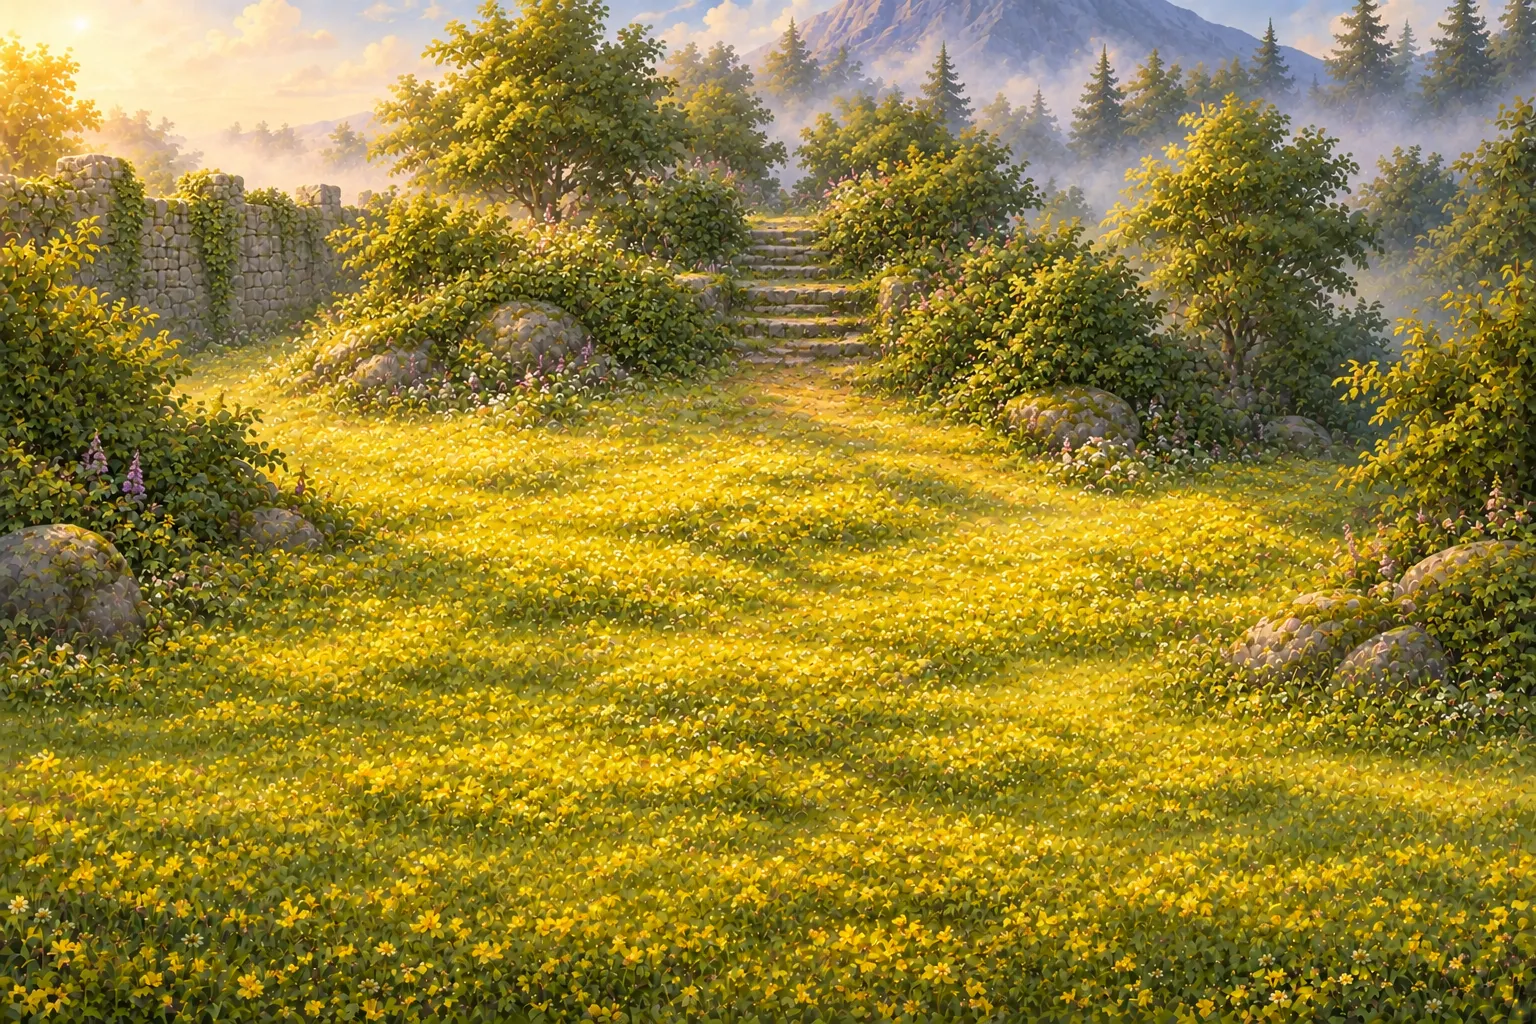
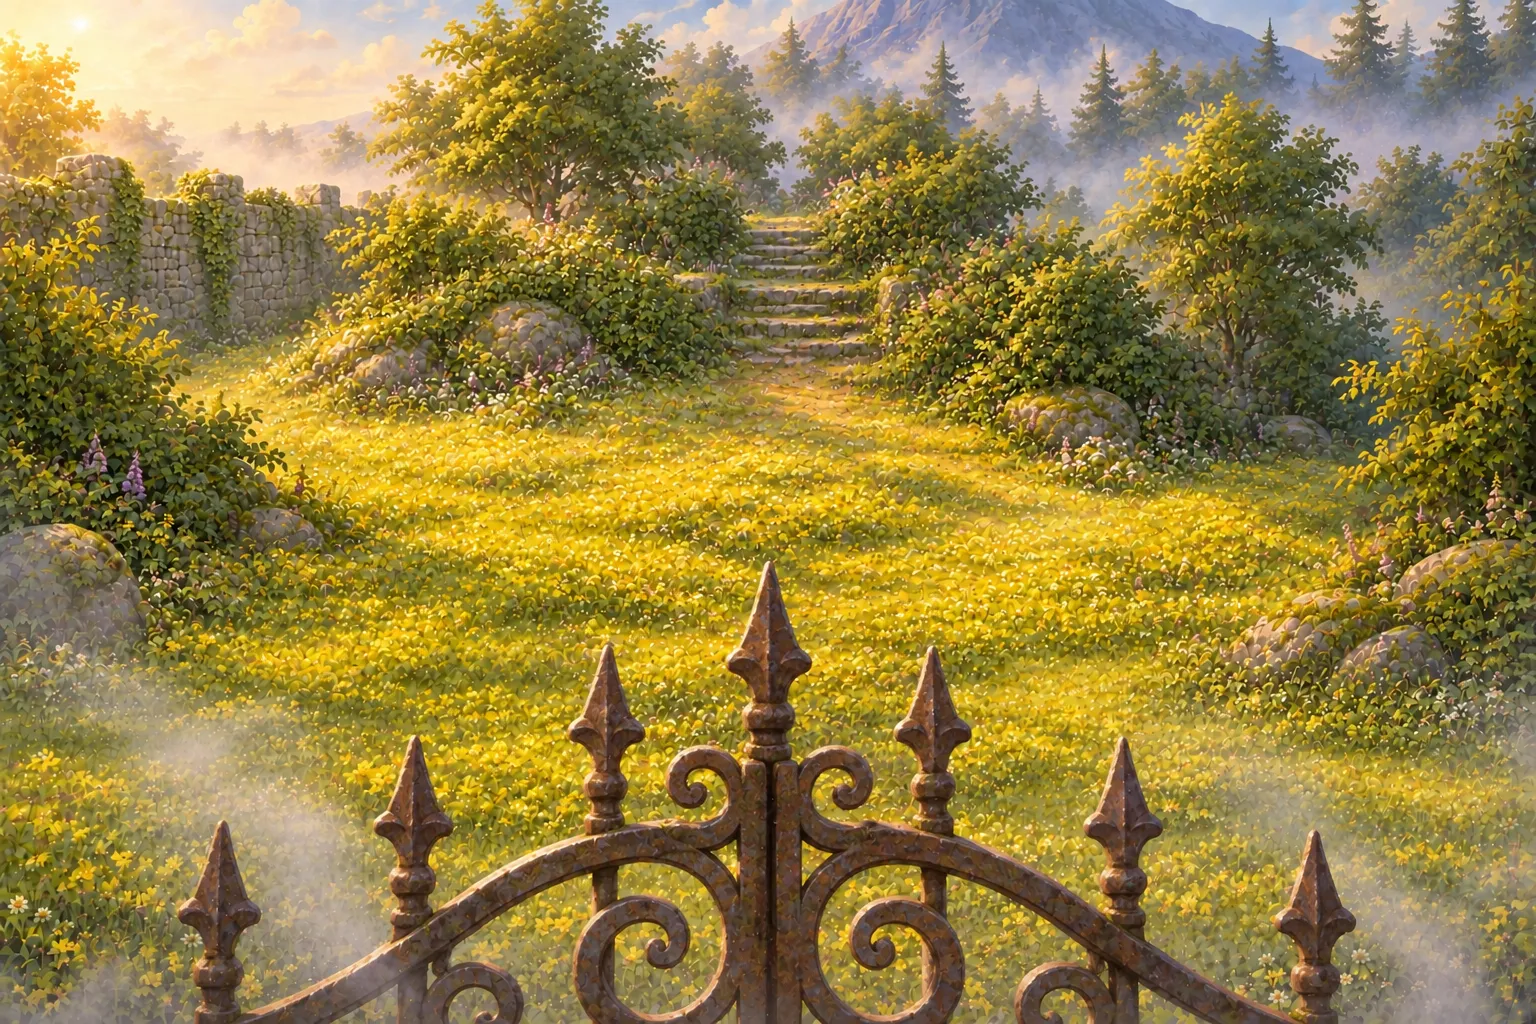
feat: Start testing the effects images

diff --git a/src/illustrated/layout.ts b/src/illustrated/layout.ts
@@ -30,6 +30,7 @@ const ROOM_ZONES: Partial<Record<RoomId, Zone>> = {
   "forest-witches": { x0: 52, x1: 90, y0: 52, y1: 66 },
   moat: { x0: 6, x1: 40, y0: 50, y1: 62 },
   "wizards-kitchen": { x0: 36, x1: 82, y0: 64, y1: 74 },
+  "yellow-flowers": { x0: 22, x1: 78, y0: 40, y1: 52 }, // above the gate's spikes
 };
 
 // Parts of a zone to keep clear, like the courtyard's well.

diff --git a/src/illustrated/app.ts b/src/illustrated/app.ts
@@ -671,7 +671,7 @@ export class IllustratedApp {
     await this.sceneNext.decode().catch(() => undefined);
     if (this.sceneUrl !== url) return; // the scene changed again while it loaded
     const fade = this.sceneNext.animate([{ opacity: 0 }, { opacity: 1 }], {
-      duration: 900,
+      duration: 600,
       easing: "ease-in-out",
       fill: "forwards",
     });

diff --git a/art/prompts/rooms/yellow-flowers.md b/art/prompts/rooms/yellow-flowers.md
@@ -1,8 +1,10 @@
 ---
-style: scene
-reference: style
+style: none
+reference: edit
 attach:
-  - art/anchors/grassy-bank.png
+  - art/anchors/yellow-flowers-v1.png
+match:
+  - art/originals/rooms/rusty-gate.png
 ---
 
 # yellow-flowers
@@ -14,14 +16,15 @@ Exits:
 - north → mossy-steps
 - south → rusty-gate (needs the key; blocked: "It won't open.")
 
-The rusty gate is to the south, behind the viewer. Since v2 the top of it
-shows along the bottom of the picture, so that `effects/yellow-flowers--key`
-can show it opening.
+The rusty gate is to the south, behind the viewer. Since v2 the very top of
+it peeks up from the bottom edge, so that `effects/yellow-flowers--key` can
+show it opening. It's an edit of the v1 picture (kept as
+`art/anchors/yellow-flowers-v1.png`), so the meadow stays as it was.
+
+The text panel covers the picture from about 72% of the way down on wide
+screens, so the gate's tips must rise to about 65%, and no higher: only the
+tips should show, or it looks as if you're on the other side of the gate.
 
 ## Prompt
 
-> A secret meadow where the ground is completely covered with **tiny yellow flowers**, glowing in the sun. To the north (top), an **overgrown path** leads away between wild bushes towards some old stone steps. A few wisps of mist linger.
->
-> - South (bottom): we are just inside the **old rusty iron gate**, seen from behind, the same gate and crumbling ivy-covered wall as in the rusty-gate picture. The top of the crumbling wall runs along the bottom edge, and the gate's arch and rusty spikes rise up from the bottom edge into the lower third of the picture, closed and locked, with silver mist beyond its bars.
->
-> Bright and joyful after the misty gate. Apart from the gate and wall at the bottom edge, the lower part of the picture is plain flowers.
+> Add only the **very top of the old rusty iron gate** from the last image, right in the foreground at the bottom edge of the picture, seen from behind, as if it's just behind us and we have only just stepped through it. Only the tips of its rusty spear-point spikes and the top curve of its scrolled arch rise up from the bottom edge, reaching about a third of the way up the picture and no higher. The rest of the gate, its lock and the wall it stands in are all below the bottom edge, out of sight. A few wisps of silver mist curl up around the spikes. Everything else in the picture, the meadow of yellow flowers, the bushes, the steps and the sky, stays exactly as it is.

diff --git a/art/prompts/effects/yellow-flowers--key.md b/art/prompts/effects/yellow-flowers--key.md
@@ -3,12 +3,18 @@ style: none
 reference: edit
 attach:
   - art/originals/rooms/yellow-flowers.png
+match:
+  - art/originals/effects/rusty-gate--key.png
 ---
 
 # yellow-flowers--key
 
 Shown when: "The gate opens." (opens the way south)
 
+The gate opens **into this meadow** (north), hinged at its outer pillars, so
+here it swings towards us. It must match `rusty-gate--key`, the same open gate
+from the other side, so make that one first.
+
 ## Prompt
 
-> The rusty iron gate at the bottom of the picture now **stands open**, both halves swung back towards us, and a little silver mist drifts in through the gap. Nothing else in the picture changes.
+> The rusty iron gate at the bottom of the picture now **stands open**. It opens into this meadow, so both halves have swung **towards us**, up into the flowers, each turning on its hinges at its own end (the left half hinged at the left, the right half at the right). Each half now stands open at an angle, its spiked top running from the bottom edge up and outwards into the flowers on its own side, foreshortened. The middle of the bottom edge, where the arch of the closed gate was, is now an open gap with a little silver mist drifting in through it. The second image shows the same open gate from the other side, so the two halves and the way they swing must agree with it. Nothing else in the picture changes.

diff --git a/art/prompts/effects/rusty-gate--key.md b/art/prompts/effects/rusty-gate--key.md
@@ -9,6 +9,10 @@ attach:
 
 Shown when: "The gate swings open with a creak." (opens the way north)
 
+The gate opens **into the yellow-flower meadow** (north), hinged at its outer
+pillars, so here it swings away from us. `yellow-flowers--key` shows the same
+open gate from the meadow side.
+
 ## Prompt
 
-> The old rusty iron gate now **stands open**, both halves swung back. The mist beyond it has parted a little, giving a glimpse of a sunny meadow covered in **tiny yellow flowers**. Nothing else in the picture changes.
+> The old rusty iron gate now **stands open**. Both halves have swung **away from us**, into the meadow beyond, each turning on its hinges at its own stone pillar (the left half hinged on the left, the right half on the right), so each now stands open at an angle, its spiked top seen foreshortened as it reaches away from us. Through the wide gap between them, the mist has parted a little, giving a glimpse of a sunny meadow covered in **tiny yellow flowers**. Nothing else in the picture changes.

diff --git a/PLAN-V2.md b/PLAN-V2.md
@@ -15,7 +15,7 @@ Pictures have no words, so Danish needs nothing new.
   opens an exit in the current room. Using something that does nothing here
   ("Nothing happens.") leaves the picture alone.
 - **When it shows**: the moment the object is used, the scene **crossfades**
-  (about 0.8 s, not the fade through black we use for moving) to the changed
+  (about 0.6 s, not the fade through black we use for moving) to the changed
   picture. The exit glows gold as it does now. With reduced motion, the
   picture swaps instantly.
 - **How long it lasts**: as long as the rules say the way is open, which is
